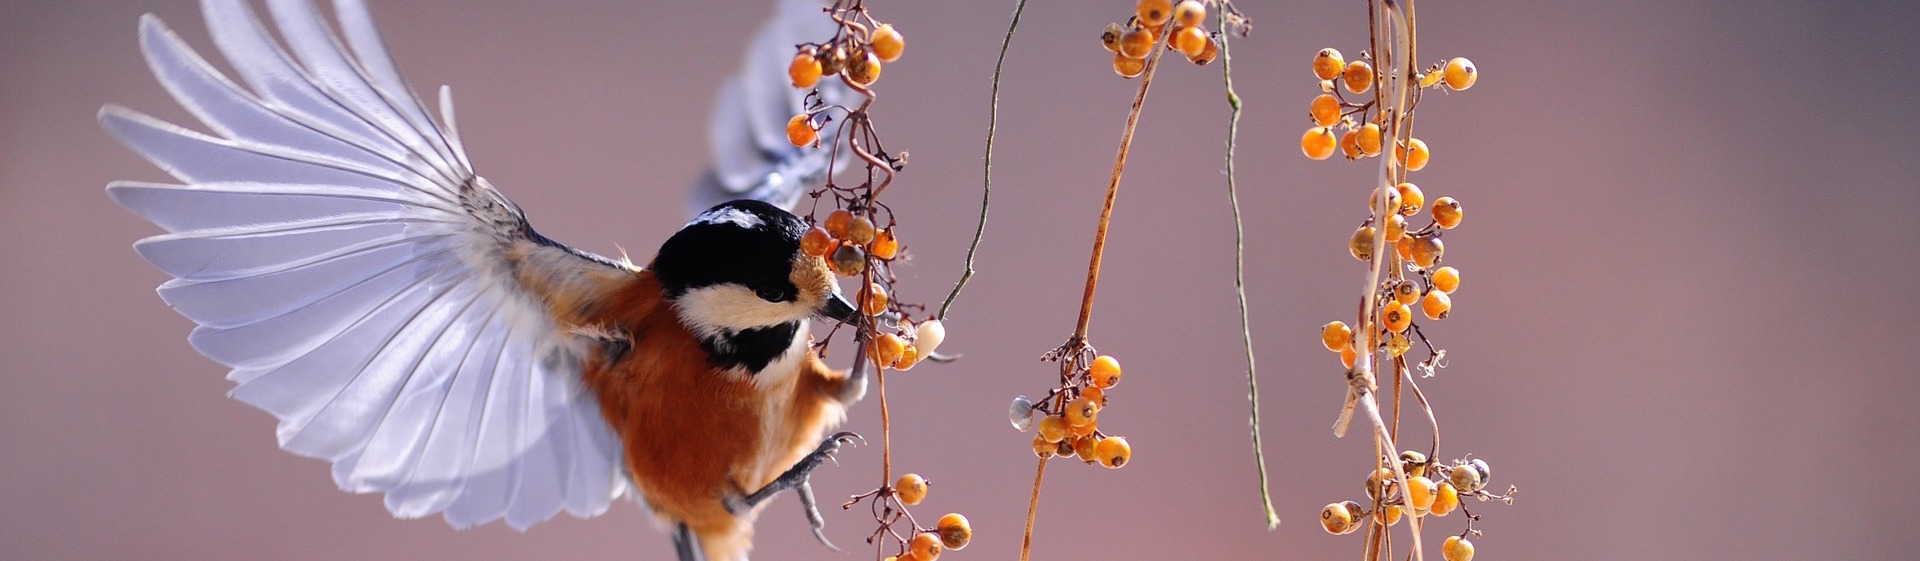
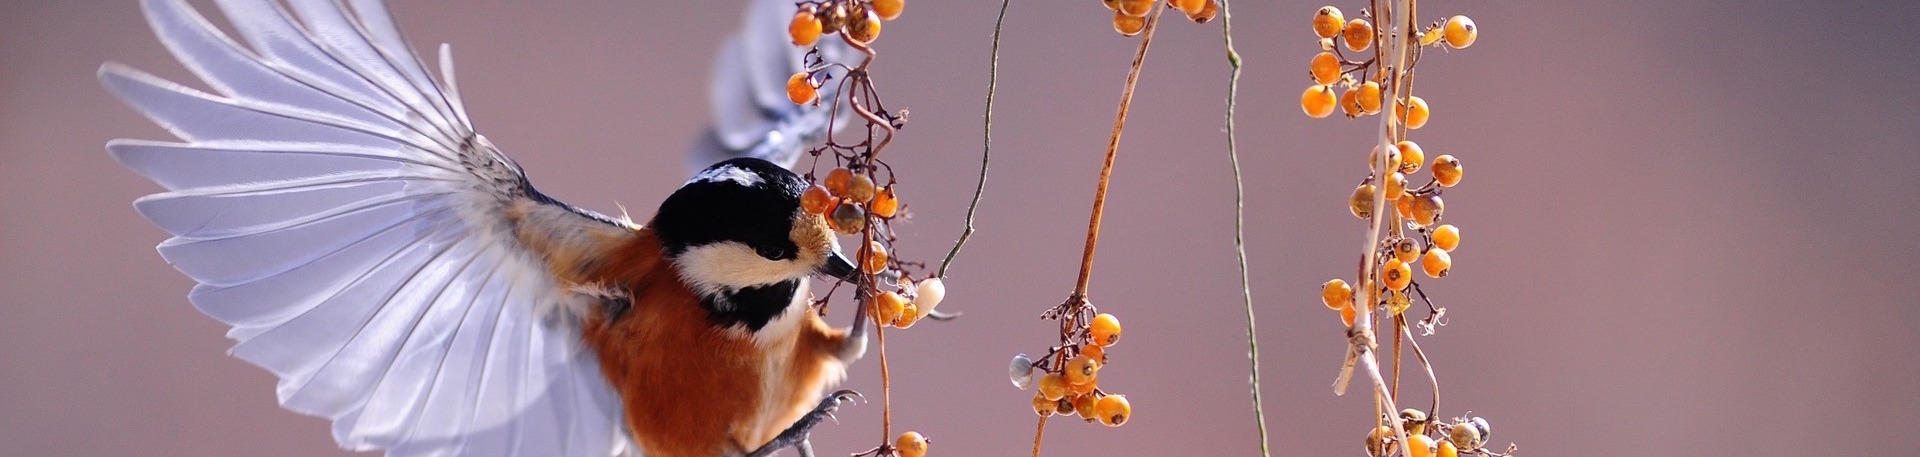
image resizing

diff --git a/index.html b/index.html
@@ -58,7 +58,7 @@
 		
 		<div class="imgMenu">
 			<img class="four columns" src="images/lense_on_sofa.jpg" alt="Camera lense" />
-			<img class="four columns" src="images/camera_accessories.jpg" alt="Camera accessories"/>
+			<img class="four columns" src="images/camera_accessories-cropped.jpg" alt="Camera accessories"/>
 			<img class="four columns" src="images/male_photographer.jpg" alt="Amateur photographer"/>
 		</div>
 		
